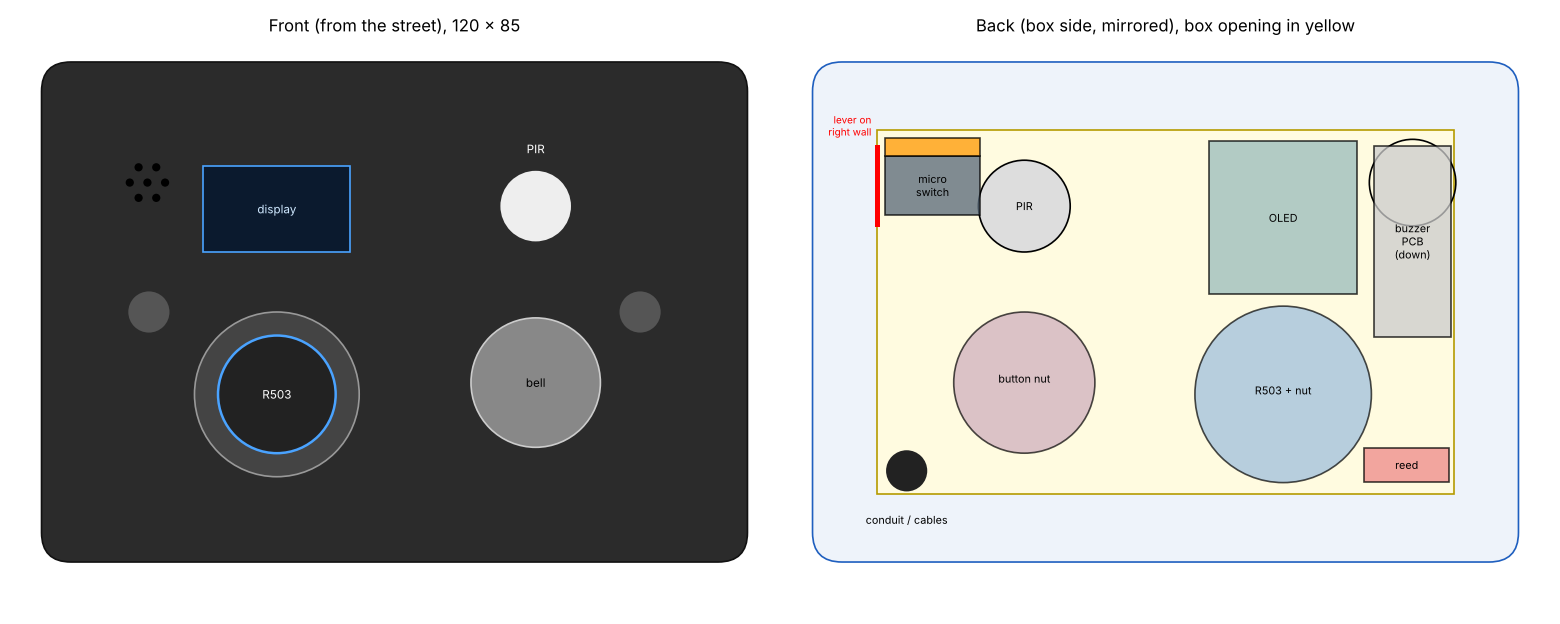
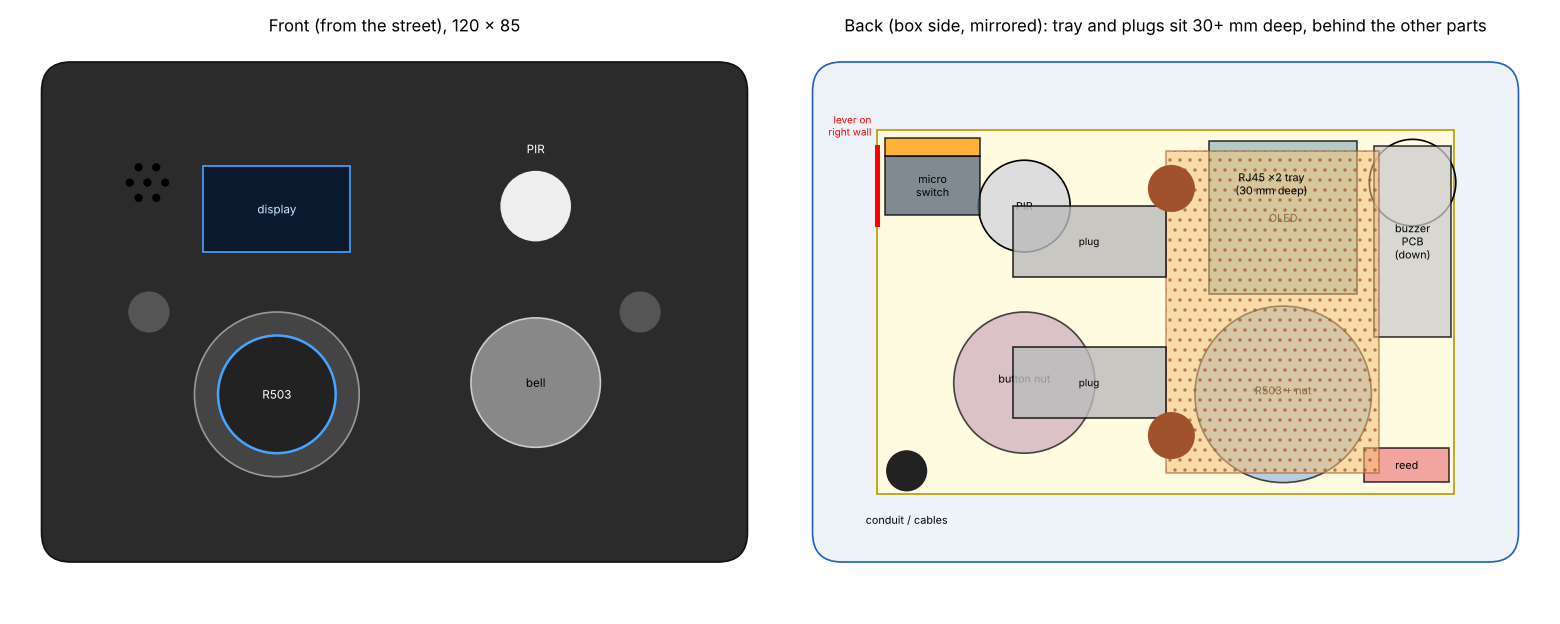
Outdoor plate: tray for the two RJ45 breakouts
- Two posts behind the display carry a separate, flat-printed tray
  (part rj45_tray) ~30 mm behind the plate, deeper than every plate part
- Jacks face the push-button side, towards the conduit; boards held by
  rails and two cable ties

Claude-Session: https://claude.ai/code/session_015e9f9p5EFhy5EoRU7fAuGL

Changed region(s): [[0.6462, 0.2131, 0.8923, 0.7612], [0.5231, 0.0304, 0.9538, 0.0609]]

diff --git a/README.md b/README.md
@@ -25,7 +25,7 @@ Tested with **ESPHome 2026.10.1**, an ESP32-WROOM-32U DevKit (38 pin) and a **Nu
 | `nuki_fingerprint.yaml` | ESPHome configuration. Wiring is documented in the header. |
 | `common/base_config.yaml` | Shared ESPHome package: Wi-Fi, encrypted OTA/API, SNTP, diagnostics (its diagnostic entity names are still in Italian, since other devices share it). |
 | `common/secrets.example.yaml` | Secrets you need to provide (copy to `secrets.yaml`). |
-| `placca-503-campanello.scad` | OpenSCAD outdoor plate for an Italian 503 flush box (OLED, R503, PIR, push button, buzzer, reed, rubber cord seal). A fin on the back holds the tamper lever microswitch, pressed by the left inner wall of the box. |
+| `placca-503-campanello.scad` | OpenSCAD outdoor plate for an Italian 503 flush box (OLED, R503, PIR, push button, buzzer, reed, rubber cord seal). A fin on the back holds the tamper lever microswitch (pressed by the inner wall of the box), and two posts carry a separate tray (`part = "rj45_tray"`) for the two RJ45 breakouts. |
 | `scatola-esp32-interna.scad` | OpenSCAD indoor enclosure: ESP32 terminal board over the battery pack, PowerBoost, LED strip with light box and diffuser, indoor buzzer, separate 230 V bay. Mounted next to an indoor wall socket: all cables come in through one opening in the right wall, split by a rib into a signal part and a 230 V part that leads into the bay through a closed channel with a cable tie (no mains in the outdoor box). |
 | `placca-anteprima.png` | Layout of the outdoor plate, front and back. |
 | `scatola-esp32-anteprima.png` | Layout preview of the indoor enclosure. |
